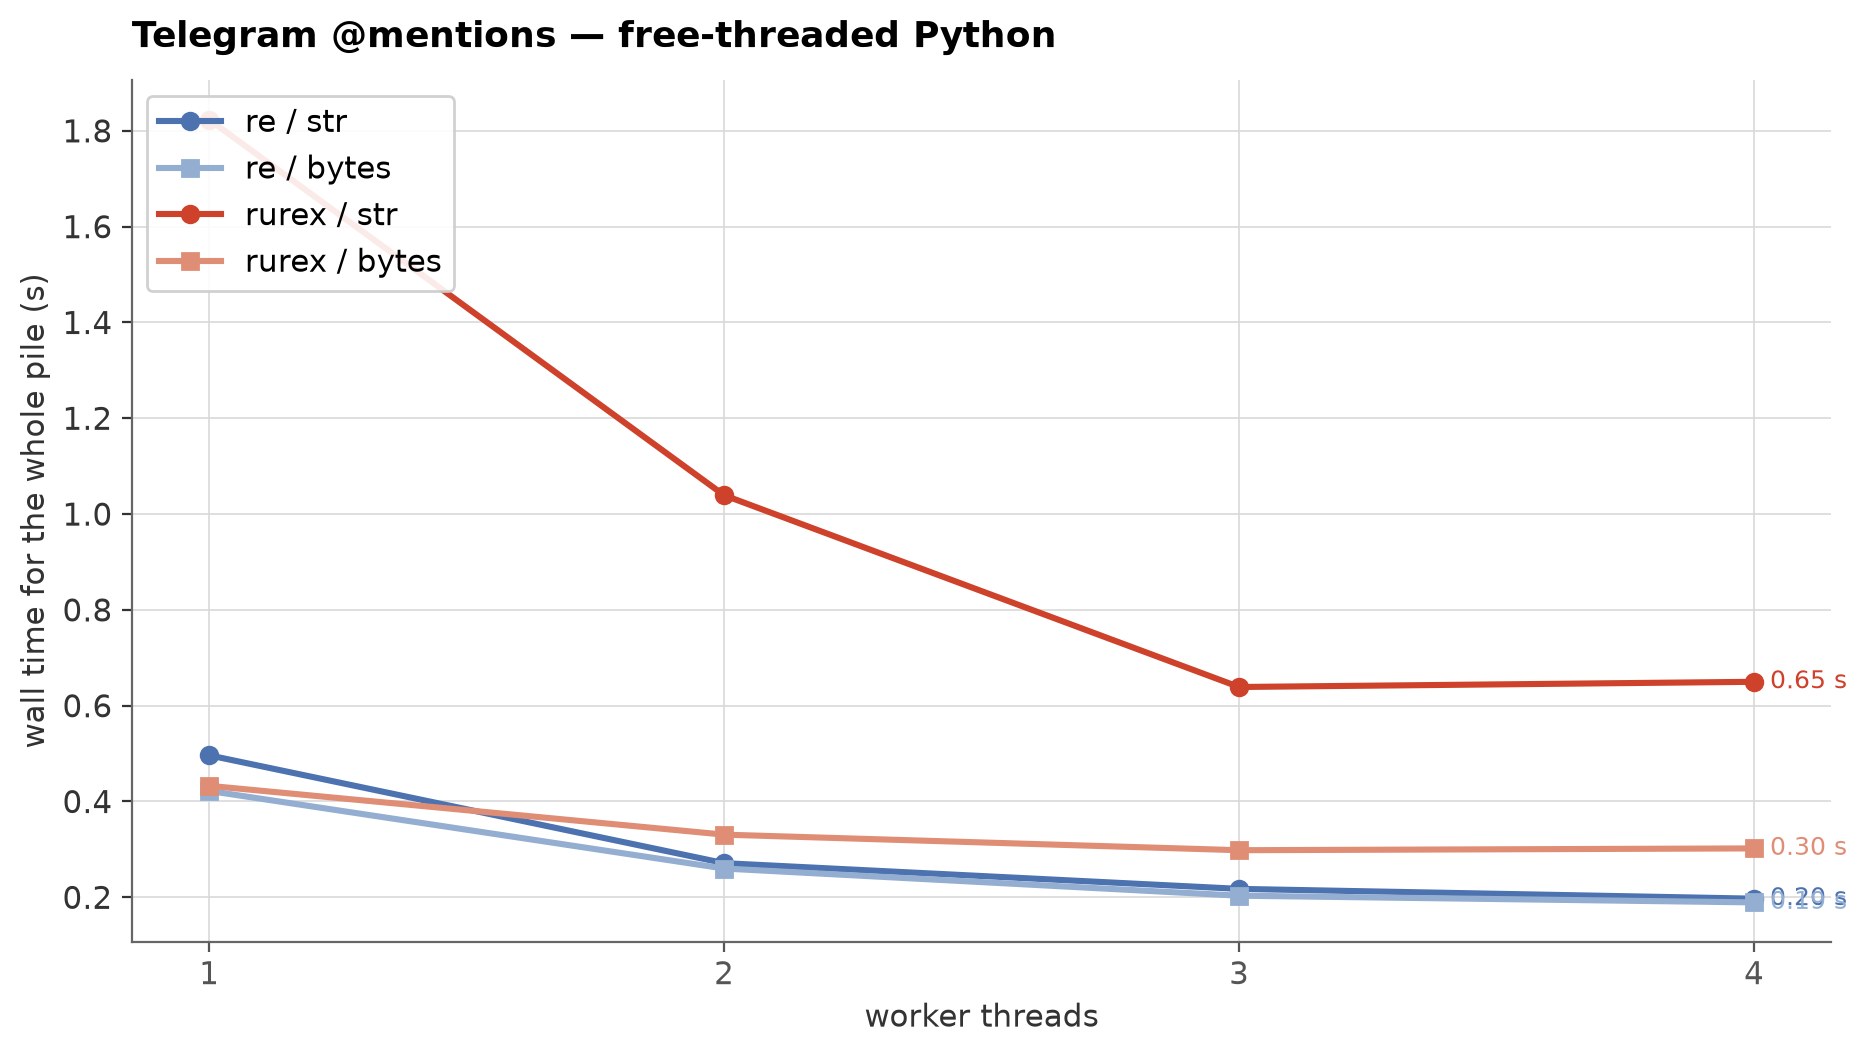
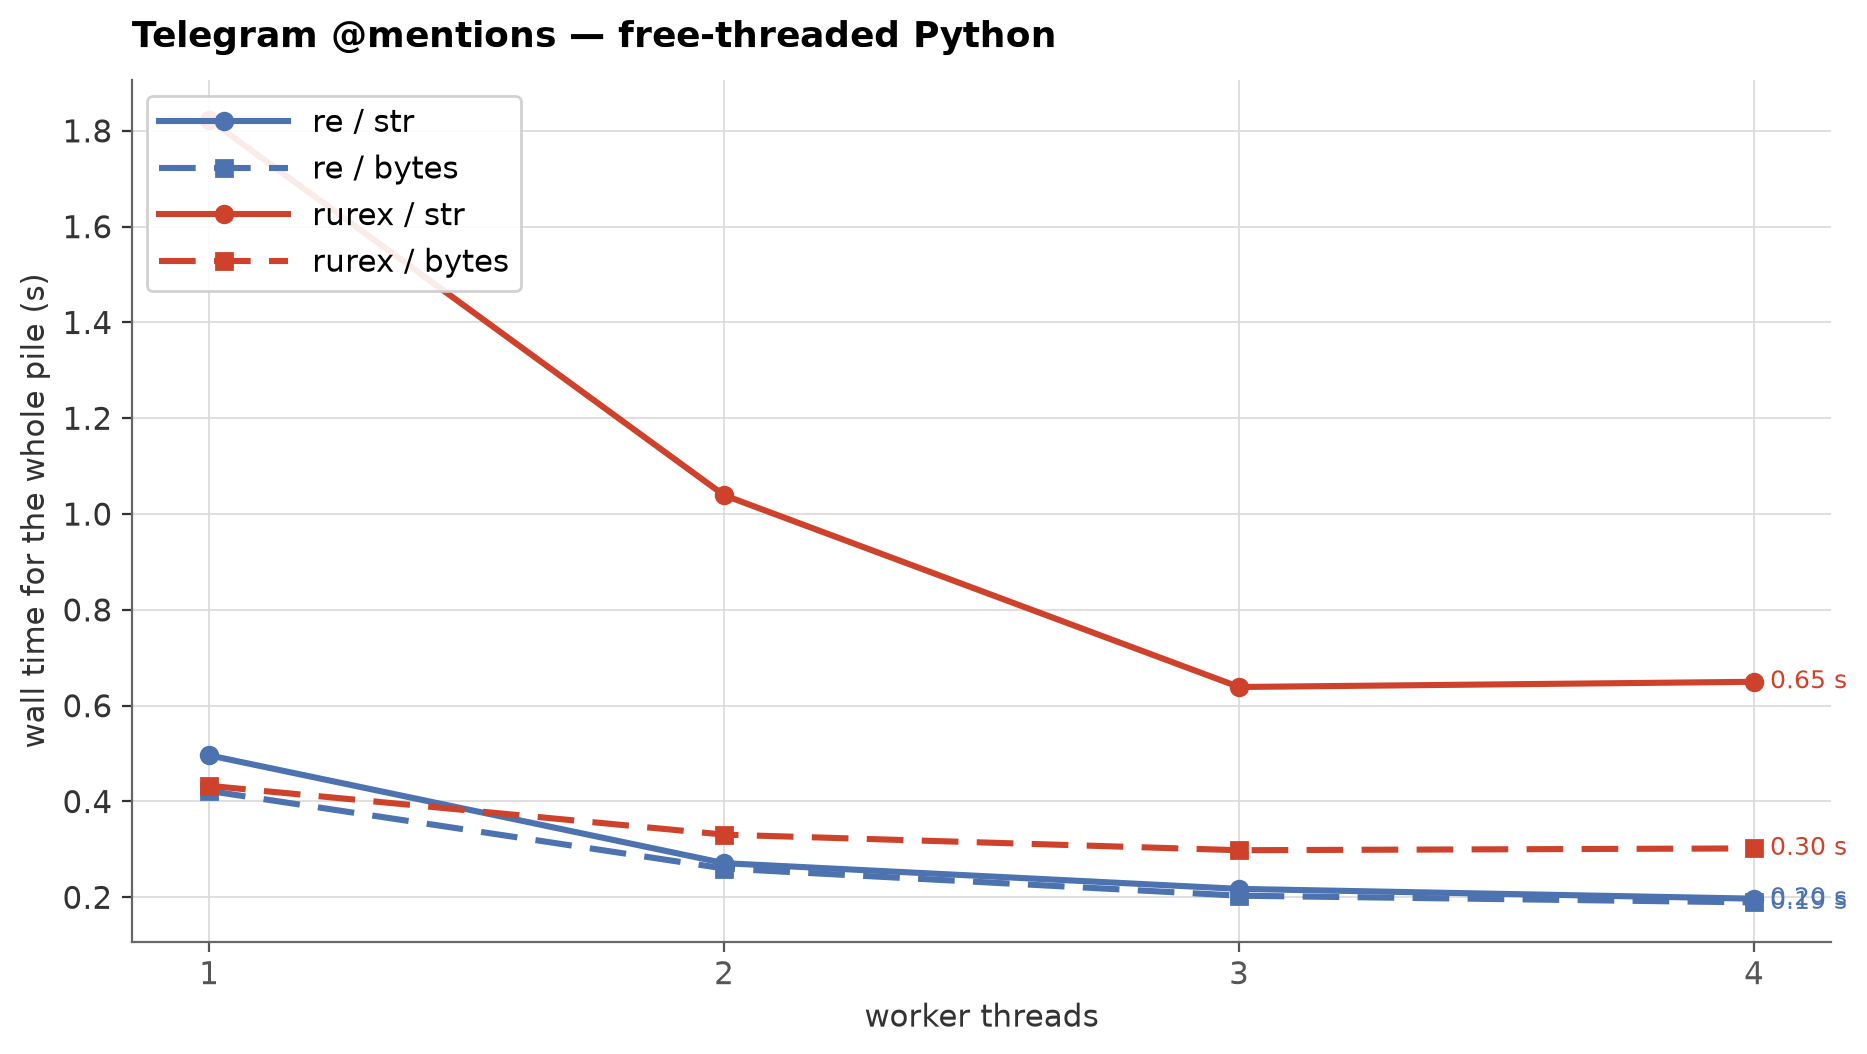
benchmarks(telegram): revert to solid/dashed per engine color; readable legend
One color per engine (no tone variants); str = solid, bytes = dashed
with an explicit long pattern (6-pt dash, 3-pt gap); markers kept
(circle = str, square = bytes). Legend handles enlarged
(handlelength 4.2) so the dash pattern is visible in the sample
line.

Changed region(s): [[0.0932, 0.7287, 0.9941, 0.8805], [0.0932, 0.1518, 0.2796, 0.2732], [0.0932, 0.0911, 0.2175, 0.1214]]

diff --git a/benchmarks/telegram_charts.py b/benchmarks/telegram_charts.py
@@ -59,10 +59,10 @@ TITLES = {
 }
 
 SERIES = (
-    ("re", "str", "#4C72B0", "o", "re / str"),
-    ("re", "bytes", "#93AED1", "s", "re / bytes"),
-    ("rurex", "str", "#CE422B", "o", "rurex / str"),
-    ("rurex", "bytes", "#E08D75", "s", "rurex / bytes"),
+    ("re", "str", "#4C72B0", "-", "o", "re / str"),
+    ("re", "bytes", "#4C72B0", (0, (6, 3)), "s", "re / bytes"),
+    ("rurex", "str", "#CE422B", "-", "o", "rurex / str"),
+    ("rurex", "bytes", "#CE422B", (0, (6, 3)), "s", "rurex / bytes"),
 )
 
 
@@ -70,12 +70,12 @@ def chart(data, interp, out_name):
     pts = [p for p in data["points"] if p["interpreter"] == interp]
     xs = sorted({p["threads"] for p in pts})
     fig, ax = plt.subplots(figsize=(9.5, 5.4))
-    for engine, form, color, marker, label in SERIES:
+    for engine, form, color, ls, marker, label in SERIES:
         ys = [next(p["wall_s"] for p in pts
                    if p["threads"] == x and p["engine"] == engine
                    and p["input"] == form)
               for x in xs]
-        ax.plot(xs, ys, marker=marker, linestyle="-", color=color,
+        ax.plot(xs, ys, marker=marker, linestyle=ls, color=color,
                 linewidth=2.2, markersize=6, label=label, zorder=3)
         ax.text(xs[-1], ys[-1], "  " + f"{ys[-1]:.2f} s",
                 color=color, fontsize=9, va="center", ha="left")
@@ -84,7 +84,7 @@ def chart(data, interp, out_name):
     ax.set_ylabel("wall time for the whole pile (s)")
     ax.set_title(TITLES[interp], loc="left", fontsize=13,
                  fontweight="bold", pad=12)
-    ax.legend(loc="upper left")
+    ax.legend(loc="upper left", handlelength=4.2, handletextpad=0.8)
     fig.tight_layout()
     path = IMG / out_name
     fig.savefig(path, bbox_inches="tight")
